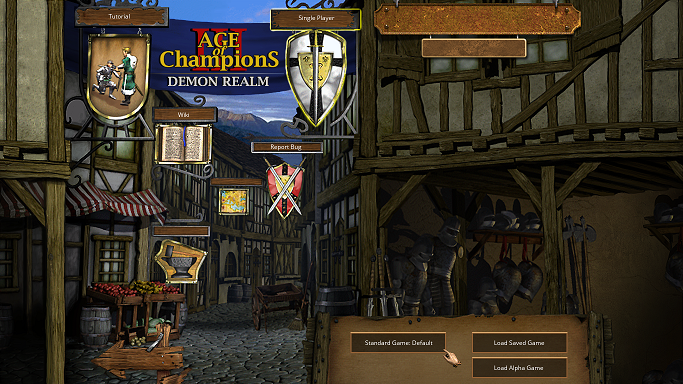
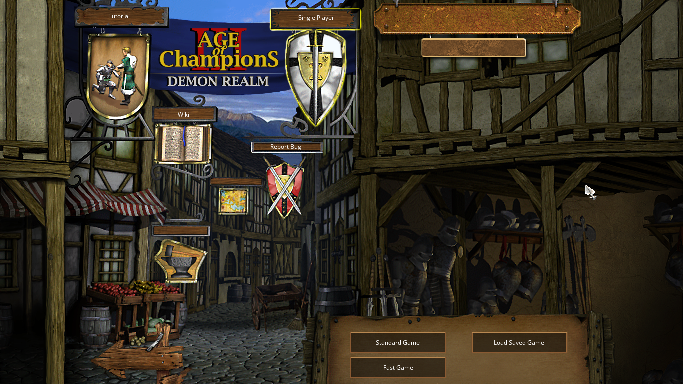
Pere.html final update

diff --git a/pere.html b/pere.html
@@ -194,7 +194,7 @@
                     <div class="col-lg-12">
 
                         <p class="important">Main Menu:</p>
-                        <p class="lead">Initial screen with few buttons that show the options available to the player, options such as a Tutorial, Wiki (link to developers Github), Exit, Report Bug and Single Player. Single Player Button will display 3 more buttons (Standard Game, Load Saved Game and Load Alpha Game). Load Games, Tutorial and Wiki Links have been done in collaboration with <a href="ferran.html"> Ferran Martín</a></p>
+                        <p class="lead">Initial screen with few buttons that show the options available to the player, options such as a Tutorial, Wiki (link to developers Github), Exit, Report Bug and Single Player. Single Player Button will display 3 more buttons (Standard Game, Load Saved Game and Fast Game). Load Games, Tutorial and Wiki Links have been done in collaboration with <a href="ferran.html"> Ferran Martín</a></p>
                         <img class="img-responsive left-block" src="img/main_menu.png" width="683" height="384">
                         <p class="important"><br/> Player:</p>
                         <p class="lead">In-Game Hud: Base Module for Player information Display and Entities Managment. It coordinates all game options and split their functionality into 4 submodules: Game Panel, Action Panel, Selection Panel and Minimap.</p>
